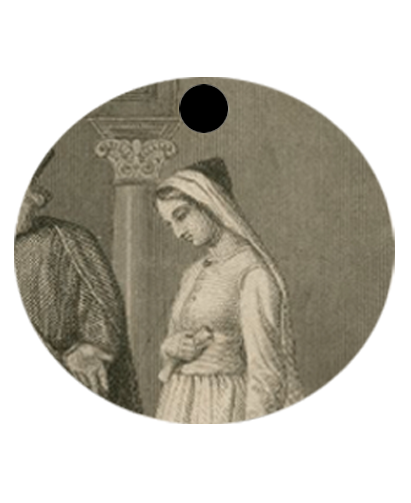
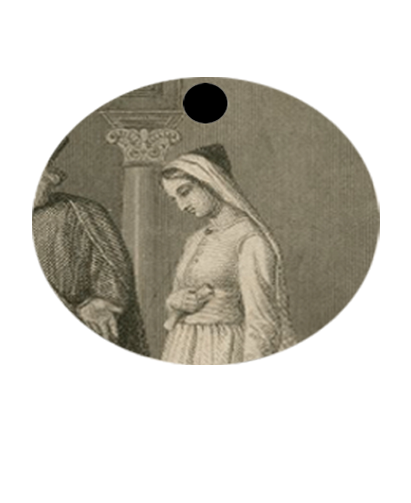
created PLAYS.map to generate all the medals in the medals tab on the screen

diff --git a/tabs/MedalsTab.js b/tabs/MedalsTab.js
@@ -1,6 +1,7 @@
 import { View, Text, StyleSheet } from "react-native";
 import { Image } from "react-native-elements";
 import { ScrollView } from "react-native-gesture-handler";
+import { PLAYS } from "../shared/playsRoot"
 
 const MedalsTab = () => {
   return (
@@ -9,12 +10,16 @@ const MedalsTab = () => {
           <Text style={styles.genreText}>ROMANCES</Text>
         </View>
         <View style={styles.medalContainer}>
+          {PLAYS.map((play, index) => (
+            <View key={index} style={styles.medalItem}>
           <Image
             style={styles.medalImage}
-            source={require("../assets/medalCollection/mAWW.png" )}
+            source={play.medalImage}
           />
-          <Text style={styles.medalTitle}>All's Well {"\n"} ThatEnds Well</Text>
+          <Text style={styles.medalTitle}>{play.name}</Text>
         </View>
+          ))}
+          </View>
     </ScrollView>
   );
 };
@@ -37,12 +42,18 @@ const styles = StyleSheet.create({
     marginTop: 5,
     margin: 28
   },
+  medalItem: {
+    alignItems: "center",
+    margin: 33
+  },
   medalImage: {
-    width: 100,
-    height: 100,
+    width: 248,
+    height: 222,
   },
   medalTitle: {
     color: "white",
+    marginTop: -22,
+    marginBottom: 11
   }
 });
 
